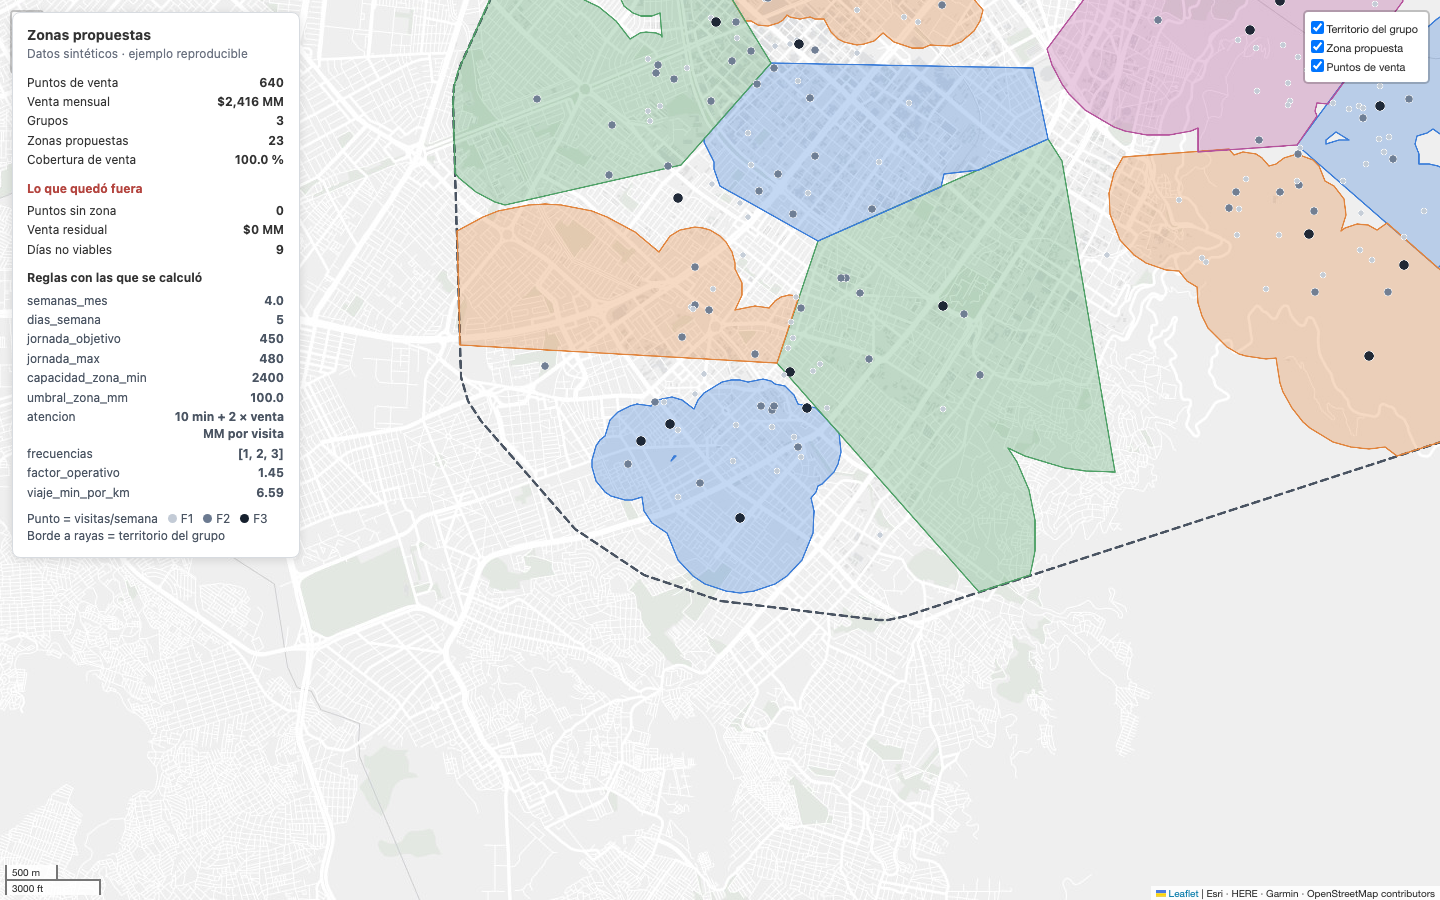
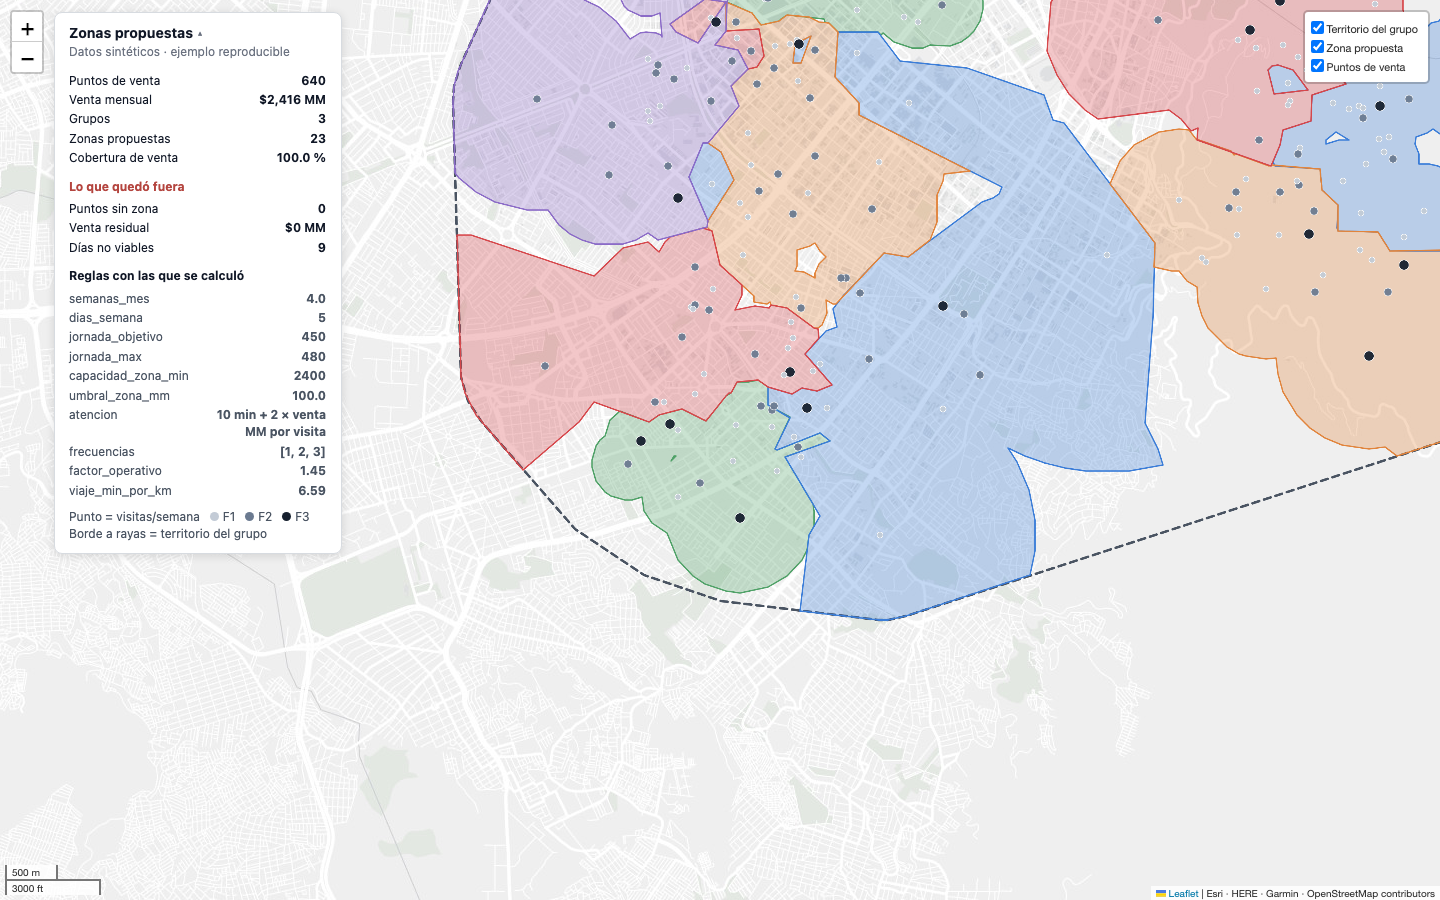
README: arquitectura, salida real, reproducibilidad y capturas del mapa actual
- Tabla de módulos con lo que entra y sale de cada uno.
- Python 3.12 y 3.14 probados; tiempo con rango honesto (30–40 s, más en
  la primera corrida) en vez de «unos 35 segundos».
- Extracto real de la salida del demo y explicación de los 2 avisos.
- Sección del solver con la medición nueva (parada por soluciones).
- 36 comprobaciones; ruff y playwright con versión fija.
- Capturas regeneradas: las anteriores mostraban puntos fuera de su zona y
  el panel tapando el zoom. Nueva captura de teléfono.
- Limitaciones: enclaves visibles en el mapa, reproducibilidad por versión.

diff --git a/README.md b/README.md
@@ -52,9 +52,27 @@ RUTAS               →  viaje + atención, sobre la matriz de tiempos real
 QA                  →  puede FALLAR y detener la entrega
 ```
 
+## Arquitectura
+
+| Módulo | Qué hace | Entra | Sale |
+|---|---|---|---|
+| `zonas/reglas.py` | todos los parámetros de negocio y las fórmulas de atención y viaje estimado | — | constantes, `minutos_visita`, `viaje_semana_min` |
+| `zonas/zonificar.py` | zonas de UN grupo: k-means capacitado, reequilibrio, poda y búsqueda del número de zonas | DataFrame con `lat`, `lon`, `venta`, `frecuencia_semana` | etiqueta por punto (`-1` = sin zona) + informe |
+| `zonas/plan_semanal.py` | días como sectores geográficos, equilibrio por ruta real, orden de visita (heurístico u OR-Tools) | puntos de una zona en km planos + matriz de minutos | una fila por día con secuencia, minutos y estado |
+| `zonas/qa.py` | invariantes que pueden detener la entrega | puntos, zonas, plan | informe impreso + `True`/`False` |
+| `ejemplo/generar_datos.py` | 640 puntos sintéticos en tres territorios | semilla | `ejemplo/datos/pdv_sinteticos.csv` |
+| `ejemplo/demo.py` | la cadena completa, con una matriz de minutos en línea recta | el CSV anterior | `ejemplo/salida/`: mapa y tres CSV |
+| `ejemplo/mapa.py` | mapa Folium de un solo archivo: territorio, zonas sin solapes, puntos, panel | puntos con zona, zonas, resumen | `mapa_zonas.html` |
+| `ejemplo/qa_visual.py` | abre el mapa en Chromium (escritorio y teléfono) y lo revisa | `mapa_zonas.html` | capturas `qa_*.png` + código de salida |
+
+`zonas/` no depende de `ejemplo/`: el motor no sabe de mapas ni de CSV. Todos sus
+módulos leen el mismo `zonas.reglas`, así que un cambio en tiempo de ejecución lo
+ve el motor entero.
+
 ## Correrlo
 
-Requiere Python 3 con `venv` (probado con 3.14; el CI usa 3.12). Dependencias:
+Requiere Python 3.12 o posterior con `venv` (probado con 3.12 y 3.14 en macOS;
+el CI usa 3.12 en Linux). Dependencias:
 NumPy, pandas, SciPy, Shapely, Folium y OR-Tools (este último opcional: sin él,
 las rutas finales caen al heurístico).
 
@@ -66,18 +84,39 @@ python3 ejemplo/demo.py             # zonifica, planifica, verifica, dibuja
 open ejemplo/salida/mapa_zonas.html # en Linux: xdg-open
 ```
 
-Unos 35 segundos. Sale con código 1 si el QA encuentra un fallo crítico: un
+Entre 30 y 40 segundos en un portátil de 8 núcleos; la primera corrida tras
+instalar puede tardar bastante más mientras se cargan las librerías. Sale con código 1 si el QA encuentra un fallo crítico: un
 entregable que no cuadra no se publica. Escribe en `ejemplo/salida/` el mapa y
 tres CSV: `pdv_con_zona.csv`, `zonas.csv` y `plan_semanal.csv` (un día-zona por
 fila, con secuencia de visita, minutos de atención, de viaje y estado).
 
-El ejemplo produce 23 zonas sobre tres territorios, con el 100 % de la venta
-capturada, cero zonas solapadas y cero pares de zonas vecinas del mismo color.
-También reporta 9 días no viables en el territorio rural, que **no** son un
+Salida real (extracto):
+
+```
+── ZONIFICACIÓN ────────────────────────────────────────────
+  DISTRIBUIDOR CENTRO    11 zonas de 11 asesores · $ 1,139 MM capturados · podados 0 · reabsorbidos 0
+  DISTRIBUIDOR NORTE      9 zonas de 9 asesores · $   942 MM capturados · podados 0 · reabsorbidos 0
+  DISTRIBUIDOR RURAL      3 zonas de 4 asesores · $   334 MM capturados · podados 0 · reabsorbidos 0
+
+── PLAN SEMANAL ────────────────────────────────────────────
+  115 días-zona en 23 zonas · VIABLE 104 · NO_VIABLE 9 · ALERTA 2
+  ...
+  10 de 12 pruebas · 0 fallos críticos · 2 avisos
+  ...
+  MIN_POR_KM actual 6.59 → medido 11.43 · correlación 0.981 sobre 23 zonas
+  ...
+  geometría: 59 vecindades · 0 pares vecinos del mismo color (objetivo 0) · 0 zonas solapadas (objetivo 0)
+```
+
+Es decir: 23 zonas sobre tres territorios, el 100 % de la venta capturada, cero
+zonas solapadas y cero pares de zonas vecinas del mismo color. Los 2 avisos son
+9 días no viables y 2 en alerta en el territorio rural, que **no** son un
 defecto del cálculo: son el conflicto de negocio real —el terreno exige más
-asesores de los que la venta paga— y el modelo no debe resolverlo solo. El
-solver de rutas trabaja con límite de tiempo, así que esas cifras pueden moverse
-un poco entre máquinas.
+asesores de los que la venta paga— y el modelo no debe resolverlo solo.
+
+La salida es reproducible: dos corridas dan los mismos CSV byte a byte. El
+solver para por número de soluciones, no por reloj (ver abajo). Con otra versión
+de OR-Tools las rutas pueden diferir en décimas de punto porcentual.
 
 ### Usarlo con datos propios
 
@@ -120,16 +159,21 @@ acorta la ruta entre 1,6 % y 13,6 % (mediana 7 %). Mil veces el tiempo por una
 diferencia que no cambia qué alternativa es mejor: el solver se reserva para la
 ruta final que se publica.
 
-**El presupuesto del solver se reparte por tamaño del día.** La búsqueda local
-guiada no para cuando encuentra el óptimo: agota el tiempo que se le dé, y la
-mediana de un día real son 8 paradas. Sobre los 115 días del ejemplo:
+**El solver para por número de soluciones, no por reloj.** La búsqueda local
+guiada no para cuando encuentra el óptimo: agota el presupuesto que se le dé. Con
+un límite de tiempo, el resultado depende de cuánta CPU le toque: tres corridas
+de la misma base daban tres planes distintos. Sobre los 115 días del ejemplo
+(mediana 8 paradas, máximo 31):
 
-| Presupuesto | Tiempo | Ruta total |
-|---|---|---|
-| Plano, 1 s por día | 113,0 s | 9.864,2 min |
-| Por tamaño del día | **33,3 s** | 9.848,0 min |
+| Criterio de parada | Tiempo | Ruta total | ¿Mismo plan al repetir? |
+|---|---|---|---|
+| Reloj plano, 1 s por día | 113,0 s | 9.864,2 min | no medido |
+| Reloj por tamaño del día | 32,7 s | 9.848–9.866 min | no |
+| **200 soluciones por día** (actual) | **25–31 s** | **9.865,6 min** | **sí** |
+| 1.000 soluciones por día | 142–145 s | 9.837,1 min | sí |
 
-3,4 veces más rápido y la misma ruta: la diferencia de 0,2 % es ruido del solver.
+Las 1.000 soluciones acortan la ruta un 0,3 % por cinco veces el tiempo. Pasar
+`segundos=` a `plan_de_zona` u `orden_optimo` vuelve al límite de reloj.
 
 **Y el estimador de viaje se calibra, no se supone.** Dentro de la zonificación
 aún no hay ruta que medir, así que se estima con Beardwood–Halton–Hammersley.
@@ -141,9 +185,9 @@ sobre 23 zonas; sobre los datos sintéticos propone subir `MIN_POR_KM` de 6,59 a
 ## Verificación
 
 ```bash
-python3 pruebas.py             # 31 comprobaciones (invariantes y regresiones), ~5 s
-pip install ruff && ruff check .   # análisis estático, reglas en ruff.toml
-python3 ejemplo/qa_visual.py   # abre el mapa en Chromium y captura dos vistas
+python3 pruebas.py                     # 36 comprobaciones (invariantes y regresiones), ~10 s
+pip install ruff==0.17.0 && ruff check .   # análisis estático, reglas en ruff.toml
+python3 ejemplo/qa_visual.py           # abre el mapa en Chromium: escritorio y teléfono
 ```
 
 El CI (`.github/workflows/pruebas.yml`) corre `ruff`, `pruebas.py` y la cadena
@@ -151,15 +195,21 @@ completa de `demo.py` en cada push a `main` y en cada pull request.
 
 `qa_visual.py` automatiza el protocolo de **[`docs/mapa.md`](docs/mapa.md)** hasta
 donde se puede: errores de JavaScript, peticiones fallidas, formas dibujadas,
-`NaN` en pantalla. El último paso no es automatizable —hay que **mirar las
+`NaN` en pantalla, controles de zoom tapados (en 1440×900 y en un teléfono de
+390×844) y scroll horizontal en el teléfono. El último paso no es automatizable —hay que **mirar las
 capturas**— y es el que encuentra lo que importa. En este repositorio encontró
 así que el fondo de mapa por defecto de Folium había pasado a exigir llave y
 estampaba «API KEY REQUIRED» sobre todo el mapa, con cero errores en consola.
 
-Requiere `pip install playwright && playwright install chromium`, haber corrido
-`demo.py` antes y red para las teselas del fondo. Sale con código 1 si hay
-errores de JavaScript, ninguna forma dibujada, `NaN` en pantalla o un bloque del
-panel ausente.
+Requiere `pip install "playwright==1.63.*" && playwright install chromium`, haber
+corrido `demo.py` antes y red para las teselas del fondo. Sale con código 1 si hay
+errores de JavaScript, ninguna forma dibujada, `NaN` en pantalla, un bloque del
+panel ausente o un control tapado. Guarda `qa_01_general.png`, `qa_02_zona.png` y
+`qa_03_movil.png`.
+
+<img src="docs/img/zonas-movil.png" width="260" alt="El mapa en un teléfono: panel plegado al pie">
+
+<sub>En un teléfono el panel arranca plegado al pie («ver resumen ▾»).</sub>
 
 ## Qué NO hace
 
@@ -180,7 +230,10 @@ panel ausente.
   referencia, sin uso en el motor.
 - **El mapa es una versión reducida** de lo que describe `docs/mapa.md`: sin
   navegación por niveles ni métricas que se recalculan. Necesita internet para
-  el fondo de mapa.
+  el fondo de mapa. Dibuja la asignación tal cual: si el motor intercala puntos
+  de dos zonas, aparecen enclaves pequeños en vez de esconderlos.
+- **La reproducibilidad es por versión.** El mismo equipo de dependencias da los
+  mismos CSV; otra versión de OR-Tools puede dar rutas algo distintas.
 
 ## Estructura
 
